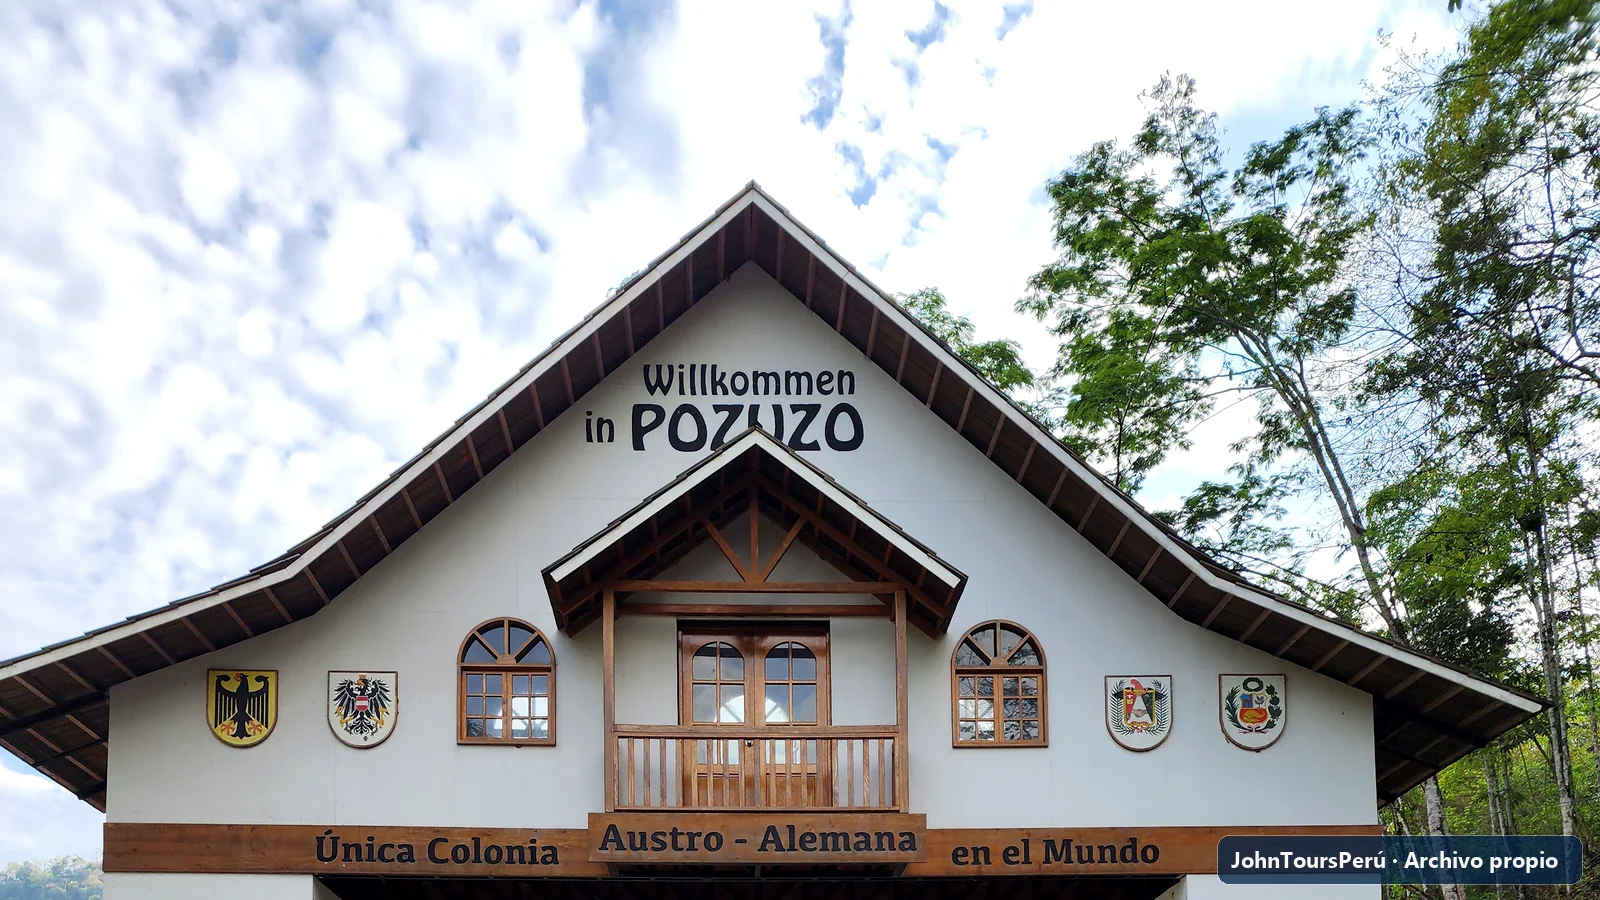
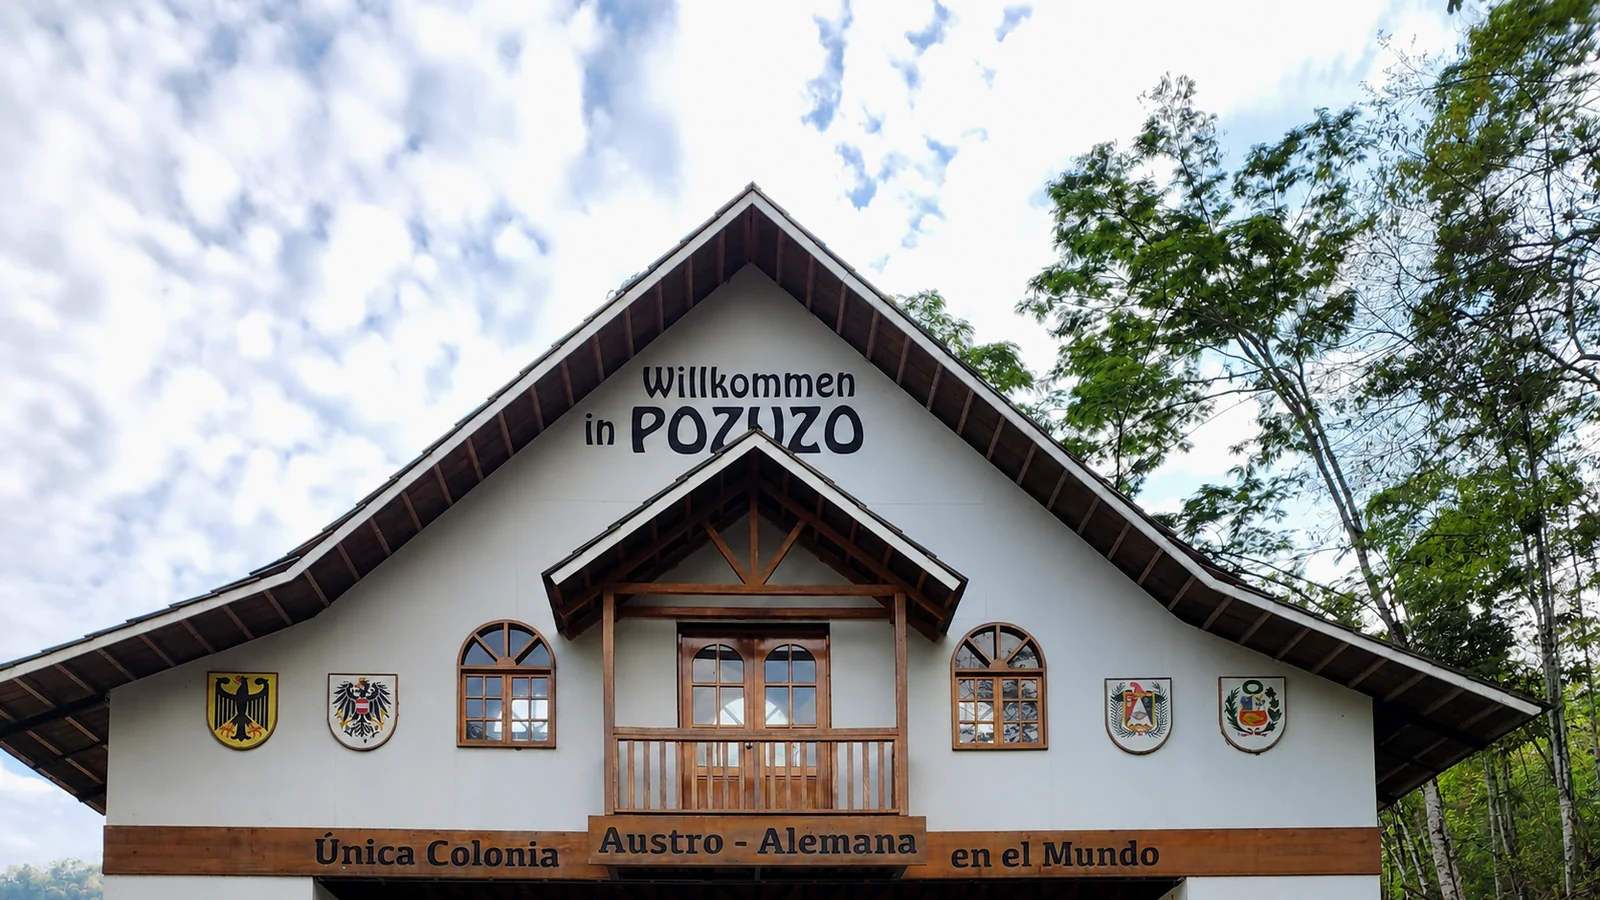
fix: centra las imagenes del catalogo

diff --git a/frontend/src/features/tours/TourApplication.tsx b/frontend/src/features/tours/TourApplication.tsx
@@ -702,7 +702,7 @@ function Tours() {
         <a href={buildWhatsAppUrl(whatsappMessages.general)} className="catalog-advisor"><span className="button-brand-stage"><img src="/whatsapp-logo.svg" alt="" /></span><span className="button-copy"><small>Ayuda personalizada</small><strong>Solicitar orientación</strong></span><ArrowRight className="button-arrow" size={17} /></a>
       </div>
       {!isLoading && filtered.length > 0 && <div className="catalog-results-meta"><span><strong>{filtered.length}</strong> {filtered.length === 1 ? "experiencia encontrada" : "experiencias encontradas"}</span><small>Precios referenciales sujetos a confirmación</small></div>}
-      {isLoading ? <p>Cargando tours...</p> : filtered.length ? <div className="grid gap-6 md:grid-cols-2 lg:grid-cols-3">{filtered.map((tour) => <TourCard key={tour.id} tour={tour} />)}</div> : <div className="catalog-empty"><Search /><strong>No encontramos ese paquete</strong><span>Prueba con el nombre del destino o solicita orientación por WhatsApp.</span></div>}
+      {isLoading ? <p>Cargando tours...</p> : filtered.length ? <div className="catalog-tour-grid grid gap-6 md:grid-cols-2 lg:grid-cols-3">{filtered.map((tour) => <TourCard key={tour.id} tour={tour} />)}</div> : <div className="catalog-empty"><Search /><strong>No encontramos ese paquete</strong><span>Prueba con el nombre del destino o solicita orientación por WhatsApp.</span></div>}
       <ItineraryLibrary />
     </Section>
   );

diff --git a/frontend/src/index.css b/frontend/src/index.css
@@ -658,16 +658,24 @@ textarea {
 
 .tour-card-media {
   position: relative;
-  height: 14rem;
+  width: 100%;
+  aspect-ratio: 16 / 9;
   overflow: hidden;
   background: #dce8ef;
 }
 
 .tour-card-media img {
+  display: block;
   width: 100%;
   height: 100%;
   object-fit: cover;
+  object-position: center center;
   transition: transform 420ms ease;
+}
+
+.catalog-tour-grid {
+  align-items: stretch;
+  justify-content: center;
 }
 
 .tour-card:hover .tour-card-media img {
@@ -1879,7 +1887,7 @@ a:focus-visible {
   }
 
   .hero-bg::before { opacity: .45; }
-  .tour-card-media { height:13rem; }
+  .tour-card-media { aspect-ratio:16 / 9; }
   .airline-guide-heading { align-items:flex-start; flex-direction:column; }
   .airline-route-grid { grid-template-columns:1fr; }
   .airline-route-card { min-height:auto; }

diff --git a/README.md b/README.md
@@ -16,7 +16,7 @@ Web publicitaria fullstack para captar clientes, mostrar tours nacionales e inte
 - Evidencia operativa integrada en el mismo apartado con recepción en aeropuerto y equipo de acompañamiento, sin crear una sección extensa adicional en la portada.
 - Galerías específicas dentro de los paquetes de Machu Picchu, Lago Titicaca–Bolivia, Guayaquil, Ica–Huacachina y Oxapampa–Pozuzo; cada fotografía se vincula con una etapa pública del itinerario y no revela horarios ni datos operativos privados.
 - Quince nuevas fotografías WebP optimizadas procedentes de las siete carpetas temáticas —Aeropuerto, Bolivia, Cusco, Equipo John, Guayaquil, Ica y Pozuzo—, sin metadatos EXIF/GPS, sin marcas de agua añadidas y sin publicar los originales de alta resolución.
-- Auditoría visual de las 40 fotografías públicas: se retiraron el logotipo y la etiqueta «Archivo propio» de las imágenes de Ica–Huacachina y Tarapoto, y las galerías ya no superponen información de procedencia sobre el material turístico.
+- Auditoría visual de las fotografías públicas: se retiraron el logotipo y la etiqueta «Archivo propio» de Ica–Huacachina, Tarapoto y Oxapampa–Pozuzo; las tarjetas conservan un encuadre panorámico 16:9 centrado y las galerías no superponen información de procedencia sobre el material turístico.
 - Un único microvideo seleccionado de Tarapoto (7 segundos, sin audio y menos de 2 MB), disponible en su promoción y detalle con carga bajo demanda. Los clips con primeros planos o transiciones de menor calidad fueron descartados.
 - Carrusel editorial de promociones con fotografías, video bajo demanda, comentario, fecha referencial, aviso de demostración y acceso directo al paquete.
 - Reel promocional propio de Machu Picchu seleccionado del archivo `E:\REELS VIAJES DE PROMOCIÓN`, recortado a 18 segundos, silenciado y optimizado a aproximadamente 2.2 MB para carga bajo demanda.
